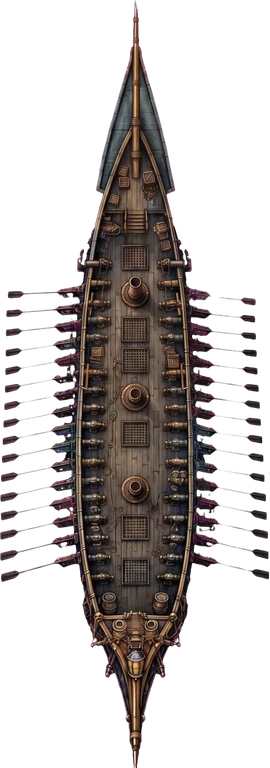
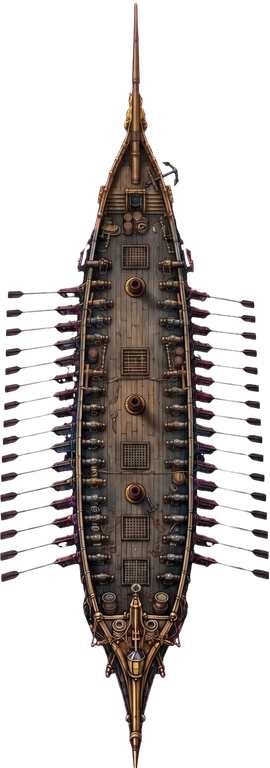
Hulls re-done: great_xebec with her full-length oars, zb_gravewater gilded again, zb_dead_mans_expanse without the torn rag (cut by hand outboard of her side hull)

diff --git a/shared/src/data/maststeps.ts b/shared/src/data/maststeps.ts
@@ -1,6 +1,6 @@
 // Written by tools/art/ships_nomast.py and tools/art/masts.py (2026-11-16): where each mastless hull's mast steps are
 // (fractions of its picture's height from the top, on its centreline), and each mast picture's pivot (its round top).
-export const MAST_STEPS: Record<string, number[]> = {"albatross_xebec":[0.3125,0.6641],"armed_fluyt":[0.3503,0.4857,0.6341],"baltimore_clipper":[0.3607,0.6263],"barque":[0.457,0.6055],"black_corsair":[0.3776,0.5208,0.668],"bomb_ketch":[0.3021,0.6263],"brig":[0.3815,0.5404],"brigantine":[0.3737,0.8333],"bulldog":[0.4714],"buss":[0.2773,0.4674,0.6745],"cargo_frigate":[0.405,0.541,0.741],"carrack":[0.3086,0.4961,0.5951],"cog":[0.5508],"collier":[0.3086,0.4701,0.6549],"coral_hulk":[0.3411,0.4544,0.7018],"corvette":[0.263,0.3594,0.5547],"crimson_tide":[0.2448,0.3945,0.5052],"cursed_frigate":[0.2852,0.5286,0.7318],"cutter":[0.582],"dolphin":[0.519,0.64],"dragon_junk":[0.3438,0.474,0.5885],"drowned_cathedral":[0.3359,0.5013,0.6589],"dunkirk_frigate":[0.3516,0.4974,0.6641],"east_indiaman":[0.3906,0.4987,0.651],"felucca":[0.418,0.64],"fireship":[0.3503,0.5247],"fishing_ketch":[0.3255,0.7057],"floating_bazaar":[0.319,0.4635,0.5977],"floating_fortress":[0.2669,0.5521],"fluyt":[0.2826,0.4961],"flying_fish":[0.366,0.506],"frigate":[0.289,0.48,0.69],"galiot":[0.308,0.52],"galleon":[0.2982,0.5143,0.7396],"ghost_clipper":[0.357,0.473,0.57],"ghost_ship":[0.32,0.5,0.647],"golden_carrack":[0.4505,0.5352],"golden_lion":[0.368,0.5443,0.661],"great_galleon":[0.353,0.5,0.6237],"great_indiaman":[0.4427],"great_xebec":[0.3672,0.5117,0.6328],"gunboat":[0.5833],"harpoon_whaler":[0.3346,0.5234,0.7318],"hoy":[0.4922],"hulk":[0.3411,0.4987],"icebound_hulk":[0.2266,0.3633,0.5508],"iron_ram":[0.388,0.5195],"iron_whale":[0.2474,0.3659,0.4935],"kraken_hunter":[0.4583],"lantern_sampan":[0.3411],"ledger_galleon":[0.2109,0.3633,0.5456],"leviathan_ark":[0.23,0.451,0.5612,0.731],"lugger":[0.331,0.507,0.65],"man_o_war":[0.349,0.4987,0.6758],"manila_galleon":[0.2617,0.3542,0.5182],"menagerie":[0.3086,0.457,0.681],"mermaid_grace":[0.3854,0.4557,0.6406],"mimic_barge":[0.3099],"pearl_schooner":[0.4674,0.6784],"phantom_brig":[0.3568,0.5846],"pink":[0.39,0.5208,0.5977],"pinnace":[0.391,0.609],"pirate_haven":[0.4805,0.6406],"plate_galleon":[0.2656,0.3867,0.5534,0.7057],"polacre":[0.3294,0.5065,0.6784],"race_galleon":[0.2839,0.4323,0.5195,0.819],"razee":[0.4557],"rum_runner":[0.4974],"sailfish":[0.3997,0.5026],"saint_elmo":[0.401,0.5521],"schooner":[0.2253,0.444],"scout_cutter":[0.582],"sea_hawk":[0.309,0.435,0.731],"shark_cutter":[0.3841,0.5221],"ship_of_the_line":[0.237,0.3659,0.5326],"silk_junk":[0.401,0.5208,0.6888],"silver_arrow":[0.3438,0.4661,0.5469,0.6628],"sloop":[0.5951],"sloop_of_war":[0.3633,0.5143,0.668],"smugglers_lugger":[0.4844],"snow":[0.388,0.6732],"spice_dhow":[0.3294,0.6172],"storeship":[0.3438,0.474,0.599],"storm_petrel":[0.4141,0.4922,0.5625],"storm_reaver":[0.4935],"sun_galleon":[0.4961],"tartane":[0.4219,0.582],"tea_clipper":[0.3477,0.4844,0.6471,0.7917],"thunderer":[0.2904,0.4557,0.5846],"topsail_schooner":[0.4049,0.6133],"treasure_fluyt":[0.4844],"treasure_junk":[0.337,0.3984,0.4753,0.5456],"turtle_barge":[0.4753],"viper":[0.5404],"war_galley":[0.3451,0.5964],"whale_mother":[0.2969,0.4193,0.556,0.7266],"wind_dancer":[0.4544],"wyvern_galleass":[0.3464,0.556,0.7643],"xebec":[0.3099,0.5169,0.7383],"zb_ashen_isles":[0.4466],"zb_black_coast":[0.2878,0.3815,0.5247],"zb_dead_mans_expanse":[0.3854,0.4844,0.5807,0.7279],"zb_drowned_crown":[0.2435,0.4323,0.5521],"zb_gravewater":[0.3008,0.4193],"zb_leviathan_reach":[0.3138,0.4961,0.6211],"zb_the_abyss":[0.306,0.5065,0.6693],"zb_whispering":[0.3685,0.4974]};
+export const MAST_STEPS: Record<string, number[]> = {"albatross_xebec":[0.3125,0.6641],"armed_fluyt":[0.3503,0.4857,0.6341],"baltimore_clipper":[0.3607,0.6263],"barque":[0.457,0.6055],"black_corsair":[0.3776,0.5208,0.668],"bomb_ketch":[0.3021,0.6263],"brig":[0.3815,0.5404],"brigantine":[0.3737,0.8333],"bulldog":[0.4714],"buss":[0.2773,0.4674,0.6745],"cargo_frigate":[0.405,0.541,0.741],"carrack":[0.3086,0.4961,0.5951],"cog":[0.5508],"collier":[0.3086,0.4701,0.6549],"coral_hulk":[0.3411,0.4544,0.7018],"corvette":[0.263,0.3594,0.5547],"crimson_tide":[0.2448,0.3945,0.5052],"cursed_frigate":[0.2852,0.5286,0.7318],"cutter":[0.582],"dolphin":[0.519,0.64],"dragon_junk":[0.3438,0.474,0.5885],"drowned_cathedral":[0.3359,0.5013,0.6589],"dunkirk_frigate":[0.3516,0.4974,0.6641],"east_indiaman":[0.3906,0.4987,0.651],"felucca":[0.418,0.64],"fireship":[0.3503,0.5247],"fishing_ketch":[0.3255,0.7057],"floating_bazaar":[0.319,0.4635,0.5977],"floating_fortress":[0.2669,0.5521],"fluyt":[0.2826,0.4961],"flying_fish":[0.366,0.506],"frigate":[0.289,0.48,0.69],"galiot":[0.308,0.52],"galleon":[0.2982,0.5143,0.7396],"ghost_clipper":[0.357,0.473,0.57],"ghost_ship":[0.32,0.5,0.647],"golden_carrack":[0.4505,0.5352],"golden_lion":[0.368,0.5443,0.661],"great_galleon":[0.353,0.5,0.6237],"great_indiaman":[0.4427],"great_xebec":[0.3724,0.5286,0.6419],"gunboat":[0.5833],"harpoon_whaler":[0.3346,0.5234,0.7318],"hoy":[0.4922],"hulk":[0.3411,0.4987],"icebound_hulk":[0.2266,0.3633,0.5508],"iron_ram":[0.388,0.5195],"iron_whale":[0.2474,0.3659,0.4935],"kraken_hunter":[0.4583],"lantern_sampan":[0.3411],"ledger_galleon":[0.2109,0.3633,0.5456],"leviathan_ark":[0.23,0.451,0.5612,0.731],"lugger":[0.331,0.507,0.65],"man_o_war":[0.349,0.4987,0.6758],"manila_galleon":[0.2617,0.3542,0.5182],"menagerie":[0.3086,0.457,0.681],"mermaid_grace":[0.3854,0.4557,0.6406],"mimic_barge":[0.3099],"pearl_schooner":[0.4674,0.6784],"phantom_brig":[0.3568,0.5846],"pink":[0.39,0.5208,0.5977],"pinnace":[0.391,0.609],"pirate_haven":[0.4805,0.6406],"plate_galleon":[0.2656,0.3867,0.5534,0.7057],"polacre":[0.3294,0.5065,0.6784],"race_galleon":[0.2839,0.4323,0.5195,0.819],"razee":[0.4557],"rum_runner":[0.4974],"sailfish":[0.3997,0.5026],"saint_elmo":[0.401,0.5521],"schooner":[0.2253,0.444],"scout_cutter":[0.582],"sea_hawk":[0.309,0.435,0.731],"shark_cutter":[0.3841,0.5221],"ship_of_the_line":[0.237,0.3659,0.5326],"silk_junk":[0.401,0.5208,0.6888],"silver_arrow":[0.3438,0.4661,0.5469,0.6628],"sloop":[0.5951],"sloop_of_war":[0.3633,0.5143,0.668],"smugglers_lugger":[0.457],"snow":[0.388,0.6732],"spice_dhow":[0.3294,0.6172],"storeship":[0.3438,0.474,0.599],"storm_petrel":[0.4141,0.4922,0.5625],"storm_reaver":[0.4935],"sun_galleon":[0.4961],"tartane":[0.4219,0.582],"tea_clipper":[0.3477,0.4844,0.6471,0.7917],"thunderer":[0.2904,0.4557,0.5846],"topsail_schooner":[0.4049,0.6133],"treasure_fluyt":[0.4844],"treasure_junk":[0.337,0.3984,0.4753,0.5456],"turtle_barge":[0.4753],"viper":[0.5404],"war_galley":[0.3451,0.5964],"whale_mother":[0.2969,0.4193,0.556,0.7266],"wind_dancer":[0.4544],"wyvern_galleass":[0.3464,0.556,0.7643],"xebec":[0.3099,0.5169,0.7383],"zb_ashen_isles":[0.4466],"zb_black_coast":[0.2878,0.3815,0.5247],"zb_dead_mans_expanse":[0.3594,0.4805,0.7253],"zb_drowned_crown":[0.2435,0.4323,0.5521],"zb_gravewater":[0.2956,0.3893,0.5247],"zb_leviathan_reach":[0.3138,0.4961,0.6211],"zb_the_abyss":[0.306,0.5065,0.6693],"zb_whispering":[0.3685,0.4974]};
 export const MAST_PIVOT: Record<string, number> = {"square_full":0.2397,"square_reef":0.3503,"square_furl":0.4419,"square_bare":0.4348,"fore_aft_full_x":0.2105,"fore_aft_full":0.2781,"fore_aft_reef_x":0.1809,"fore_aft_reef":0.3263,"fore_aft_furl_x":0.1489,"fore_aft_furl":0.3558,"fore_aft_bare_x":0.1367,"fore_aft_bare":0.3584};
 // the ships whose sails were dyed (their old paintings): the grey canvas of the mast sets takes this colour
 export const MAST_TINT: Record<string, string> = {"crimson_tide":"#7a1f1c","black_corsair":"#4e1a19","dragon_junk":"#6e2a1e","treasure_junk":"#6a2a22","golden_lion":"#74322a","zb_ashen_isles":"#4a2a22","silk_junk":"#33456e","spice_dhow":"#a57945","golden_carrack":"#b8975e","sun_galleon":"#cdb88e"};

diff --git a/tools/art/ships_nomast.py b/tools/art/ships_nomast.py
@@ -51,7 +51,7 @@ def fetch(name: str, stem: str, cdn: str) -> str:
 
 
 # ships whose painting has parts standing apart from the hull (boats on davits, oars): only edge-cut strays go
-KEEP_PARTS = {'whale_mother', 'wyvern_galleass', 'hoy', 'great_xebec'}
+KEEP_PARTS = {'whale_mother', 'wyvern_galleass', 'hoy', 'great_xebec', 'smugglers_lugger'}
 
 
 def hull_only(a: np.ndarray) -> np.ndarray:
